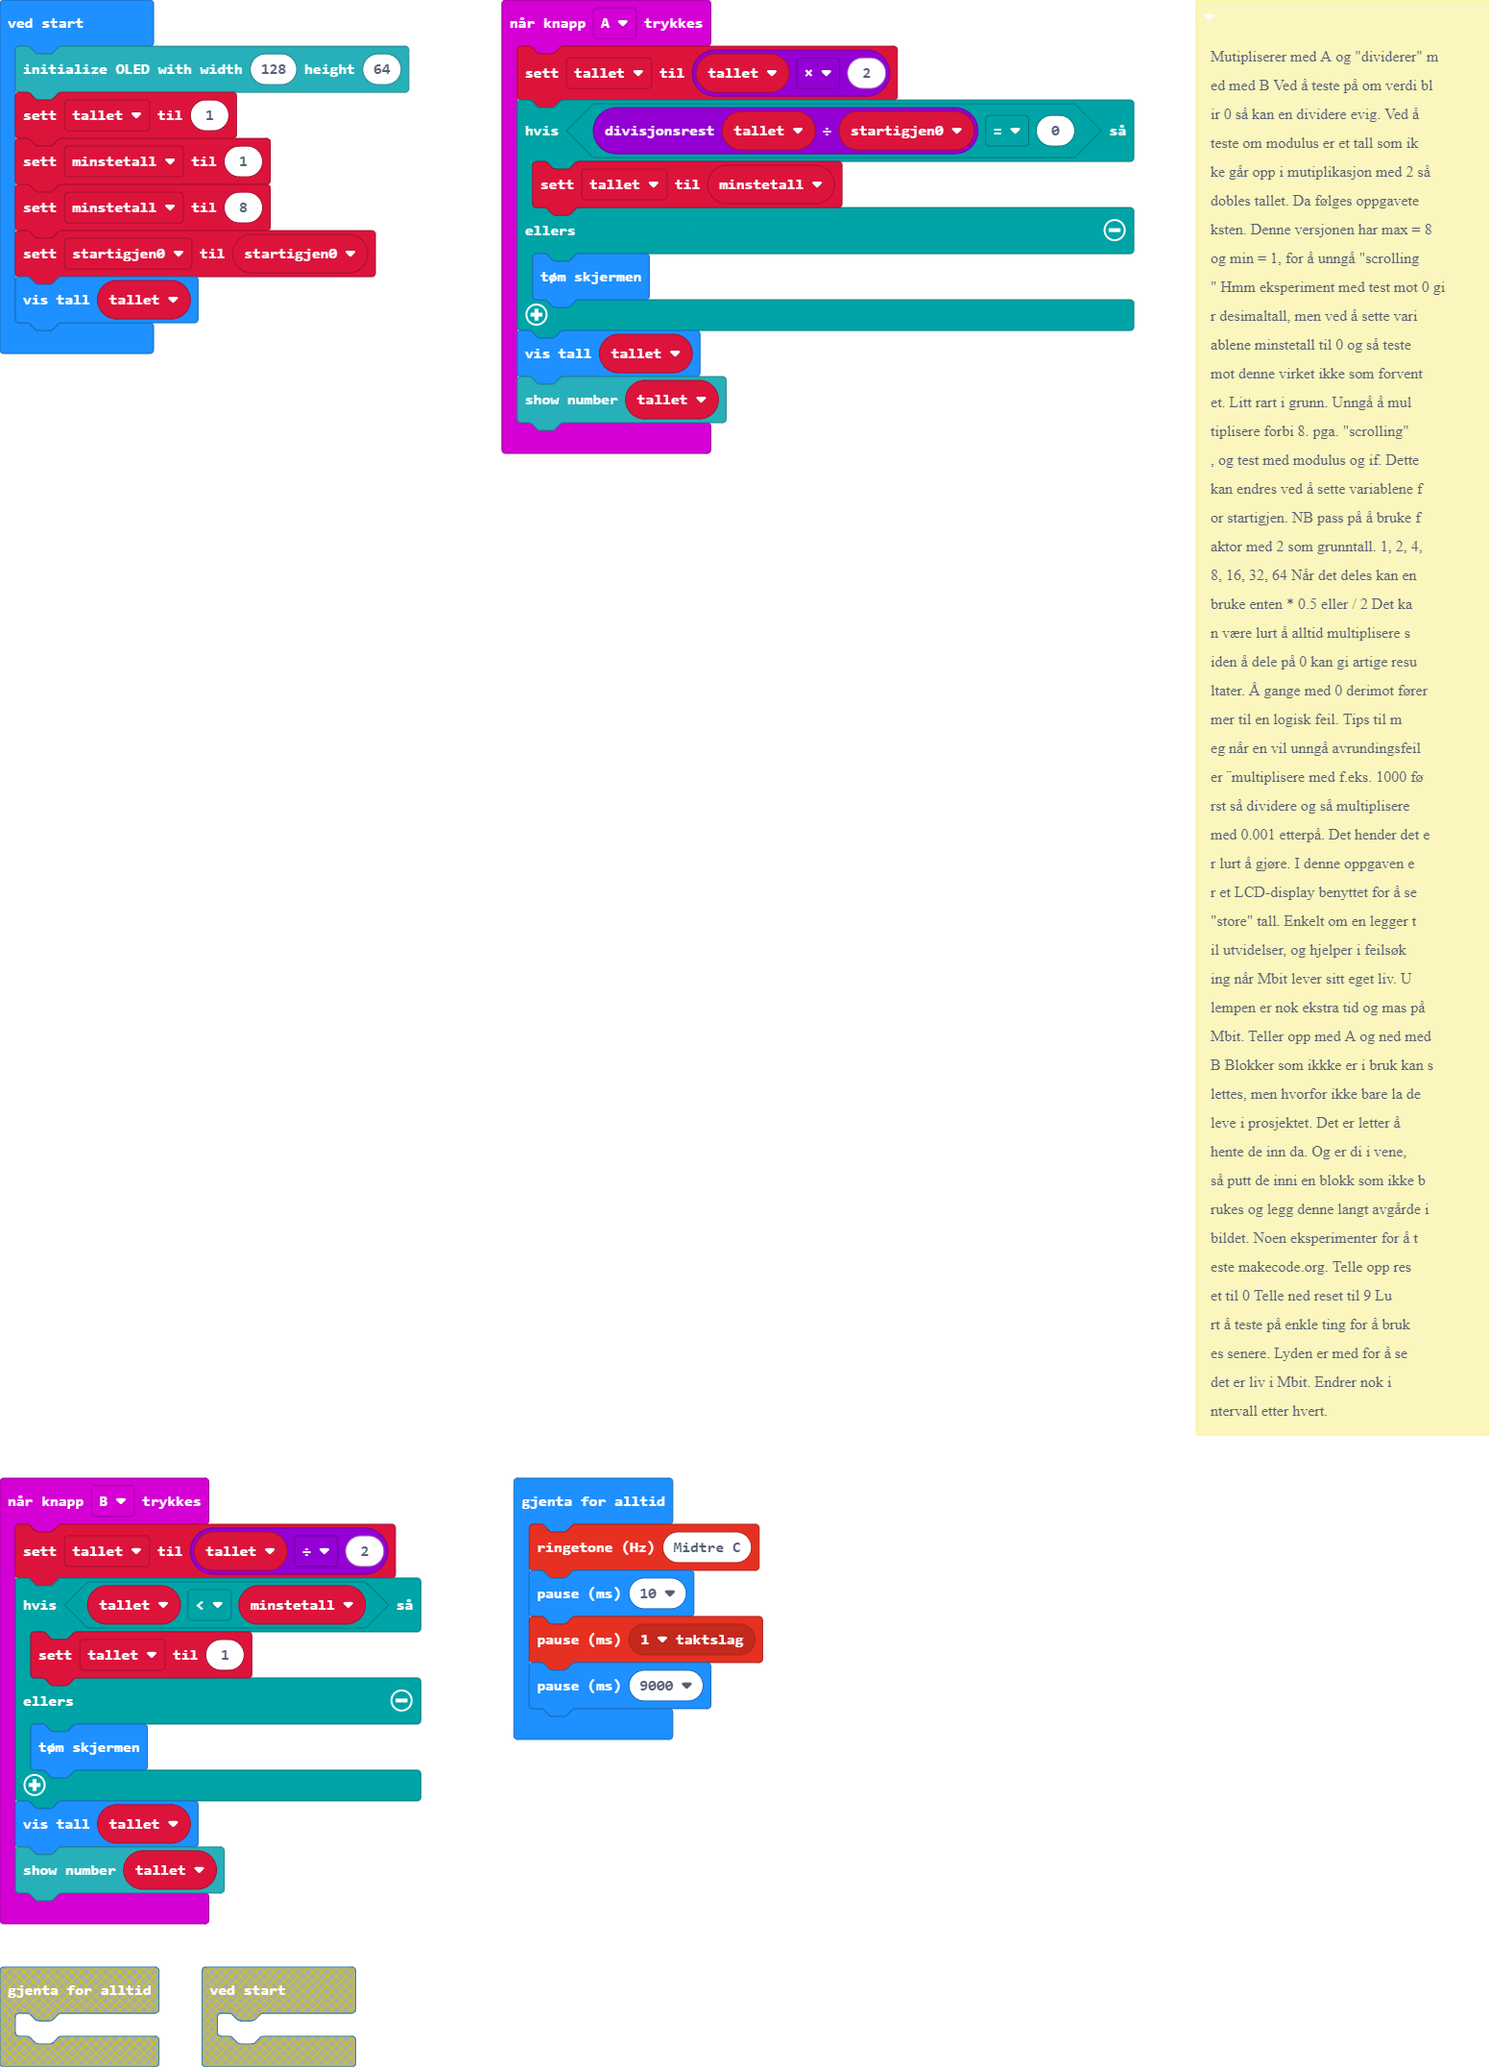
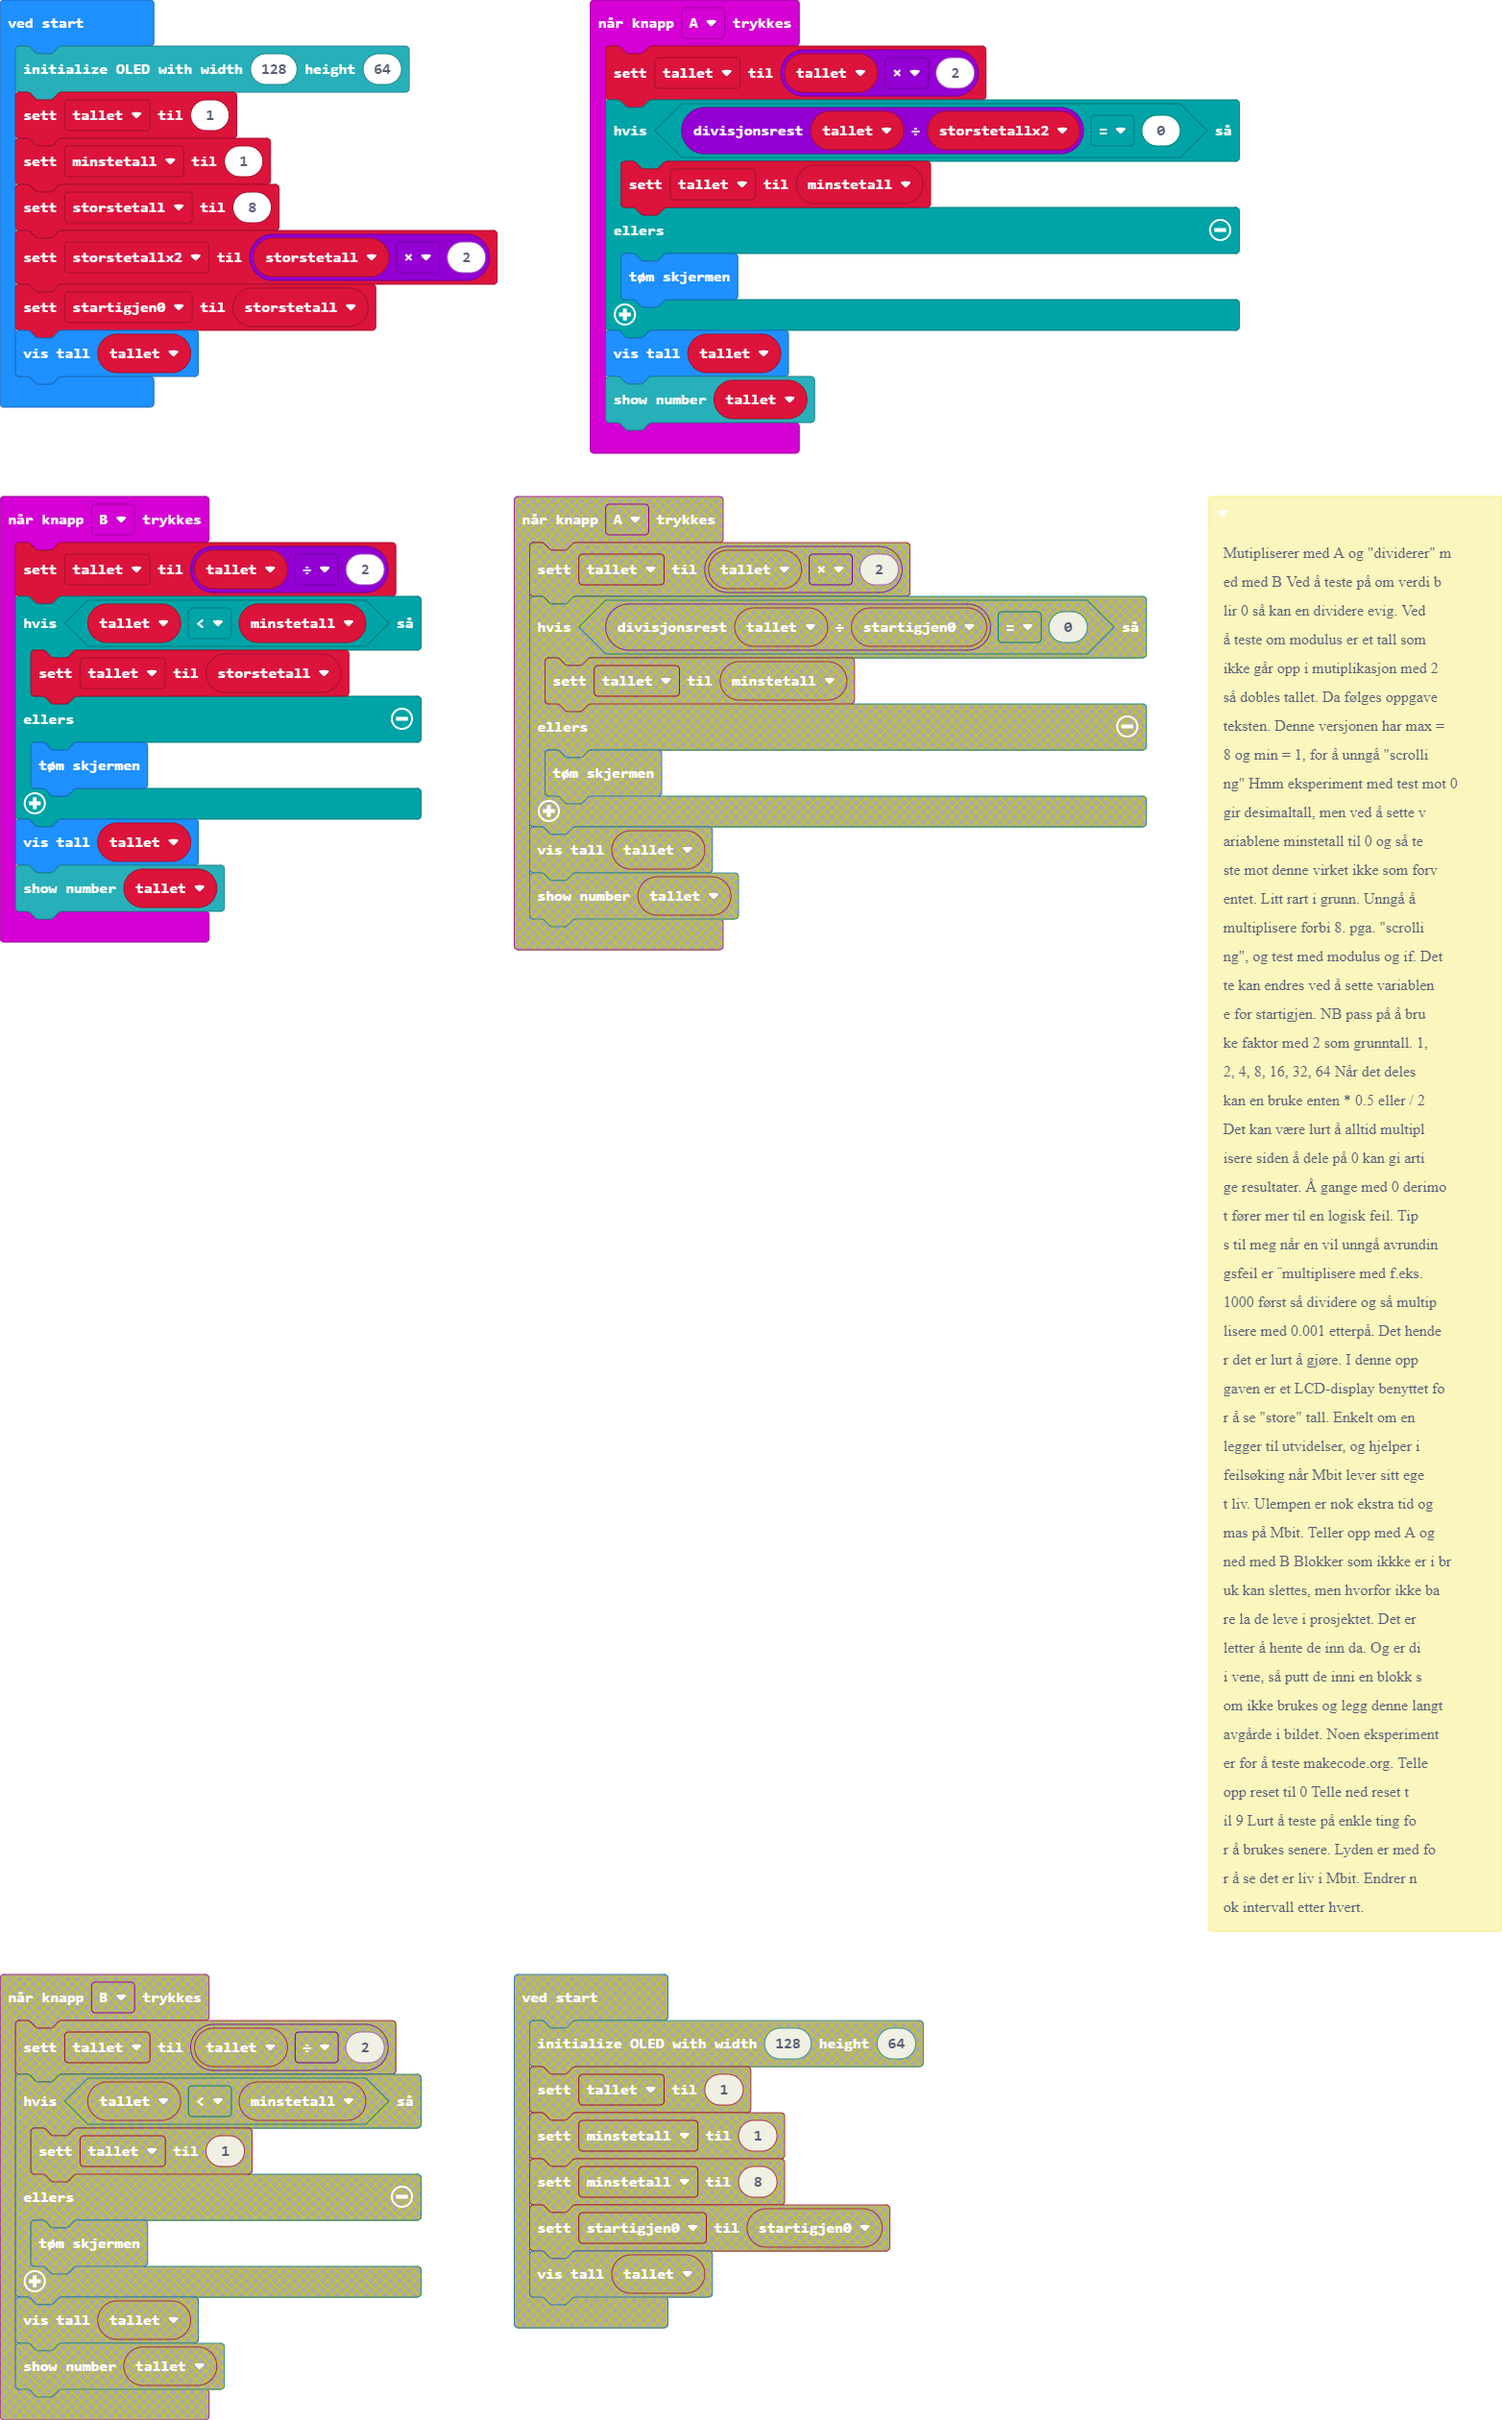
Fikset multiplikasjon og divisjon

diff --git a/main.ts b/main.ts
@@ -1,23 +1,3 @@
-input.onButtonPressed(Button.A, function () {
-    tallet = tallet * 2
-    if (tallet % startigjen0 == 0) {
-        tallet = minstetall
-    } else {
-        basic.clearScreen()
-    }
-    basic.showNumber(tallet)
-    OLED.writeNumNewLine(tallet)
-})
-input.onButtonPressed(Button.B, function () {
-    tallet = tallet / 2
-    if (tallet < minstetall) {
-        tallet = 1
-    } else {
-        basic.clearScreen()
-    }
-    basic.showNumber(tallet)
-    OLED.writeNumNewLine(tallet)
-})
 /**
  * Mutipliserer med A og "dividerer" med med B
  * 
@@ -27,7 +7,7 @@ input.onButtonPressed(Button.B, function () {
  * 
  * Denne versjonen har max = 8 og min = 1, for å unngå "scrolling"
  * 
- * Hmm eksperiment med test mot 0 gir desimaltall, men ved å sette variablene minstetall til 0 og så teste mot 
+ * Hmm eksperiment med test mot 0 gir desimaltall, men ved å sette variablene minstetall til 0 og så teste mot
  * 
  * denne virket ikke som forventet. Litt rart i grunn.
  * 
@@ -61,14 +41,36 @@ input.onButtonPressed(Button.B, function () {
  * 
  * Endrer nok intervall etter hvert.
  */
-let startigjen0 = 0
+input.onButtonPressed(Button.A, function () {
+    tallet = tallet * 2
+    if (tallet % storstetallx2 == 0) {
+        tallet = minstetall
+    } else {
+        basic.clearScreen()
+    }
+    basic.showNumber(tallet)
+    OLED.writeNumNewLine(tallet)
+})
+input.onButtonPressed(Button.B, function () {
+    tallet = tallet / 2
+    if (tallet < minstetall) {
+        tallet = storstetall
+    } else {
+        basic.clearScreen()
+    }
+    basic.showNumber(tallet)
+    OLED.writeNumNewLine(tallet)
+})
+let storstetallx2 = 0
+let storstetall = 0
 let minstetall = 0
 let tallet = 0
 OLED.init(128, 64)
 tallet = 1
 minstetall = 1
-minstetall = 8
-startigjen0 = startigjen0
+storstetall = 8
+storstetallx2 = storstetall * 2
+let startigjen0 = storstetall
 basic.showNumber(tallet)
 basic.forever(function () {
     music.ringTone(262)
